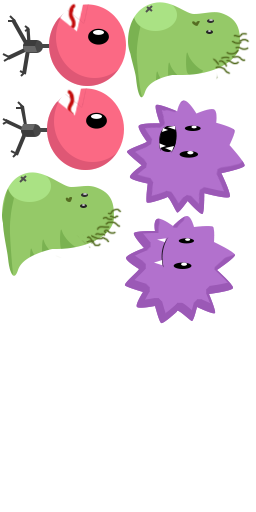
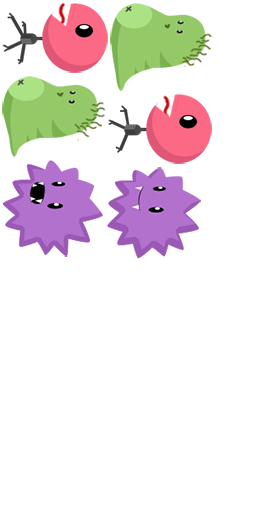
Make bacterias and doctors smaller

diff --git a/src/config/Level.js b/src/config/Level.js
@@ -6,7 +6,7 @@ var Level1 = {
     bacterias:[
         {
             ShowType:"Repeat",
-            ShowTime:"00:10",
+            ShowTime:"00:50",
             Lane:1,
             Type:0
         },
@@ -30,7 +30,7 @@ var Level1 = {
         },
         {
             ShowType:"Repeat",
-            ShowTime:"00:60",
+            ShowTime:"00:20",
             Lane:2,
             Type:1
         },
@@ -42,7 +42,7 @@ var Level1 = {
         },
         {
             ShowType:"Repeat",
-            ShowTime:"00:15",
+            ShowTime:"00:50",
             Lane:3,
             Type:0
         },
@@ -54,8 +54,26 @@ var Level1 = {
         },
         {
             ShowType:"Repeat",
-            ShowTime:"00:60",
+            ShowTime:"00:40",
             Lane:3,
+            Type:2
+        },
+        {
+            ShowType:"Repeat",
+            ShowTime:"00:55",
+            Lane:4,
+            Type:0
+        },
+        {
+            ShowType:"Repeat",
+            ShowTime:"00:30",
+            Lane:4,
+            Type:1
+        },
+        {
+            ShowType:"Repeat",
+            ShowTime:"00:10",
+            Lane:4,
             Type:2
         }
     ]

diff --git a/src/config/BacteriaType.js b/src/config/BacteriaType.js
@@ -5,19 +5,17 @@ var BacteriaType = [
     {
         type:0,
         textureName:"bacteriaGreen",
-        //bulletType:"W2.png",
-        HP:100,
+        HP:800,
         moveSpeed:50,
         moveType:PvZ.BACTERIA_MOVE_TYPE.HORIZONTAL_WALK,
-        attackPower:1,
+        attackPower:3,
         attackMode:PvZ.BACTERIA_ATTACK_TYPE.INFECT
     },
     {
         type:1,
         moveSpeed:25,
         textureName:"bacteriaPink",
-        //bulletType:"W2.png",
-        HP:200,
+        HP:500,
         moveType:PvZ.BACTERIA_MOVE_TYPE.HORIZONTAL_WALK,
         attackPower:2,
         attackMode:PvZ.BACTERIA_ATTACK_TYPE.INFECT
@@ -26,10 +24,9 @@ var BacteriaType = [
         type:2,
         moveSpeed:10,
         textureName:"bacteriaPurple",
-        //bulletType:"W2.png",
-        HP:200,
+        HP:250,
         moveType:PvZ.BACTERIA_MOVE_TYPE.HORIZONTAL_WALK,
-        attackPower:3,
+        attackPower:1,
         attackMode:PvZ.BACTERIA_ATTACK_TYPE.INFECT
     }
 ]

diff --git a/src/Game/LayerGameCharacter.js b/src/Game/LayerGameCharacter.js
@@ -47,8 +47,8 @@ var GameCharacterLayer = cc.Layer.extend({
             Bacteria.sharedAnimation();
 
             //coffee counter
-            this._lbCoffee = cc.LabelTTF.create(""+PvZ.COLLECTED_COFFEE, "Arial", 38);
-            this._lbCoffee.setPosition(cc.p(winSize.width/10,5.5*winSize.height/6));
+            this._lbCoffee = cc.LabelTTF.create(""+PvZ.COLLECTED_COFFEE, "Arial", 30);
+            this._lbCoffee.setPosition(cc.p(winSize.width/10,5.7*winSize.height/6));
             this.addChild(this._lbCoffee);
 
             // schedule
